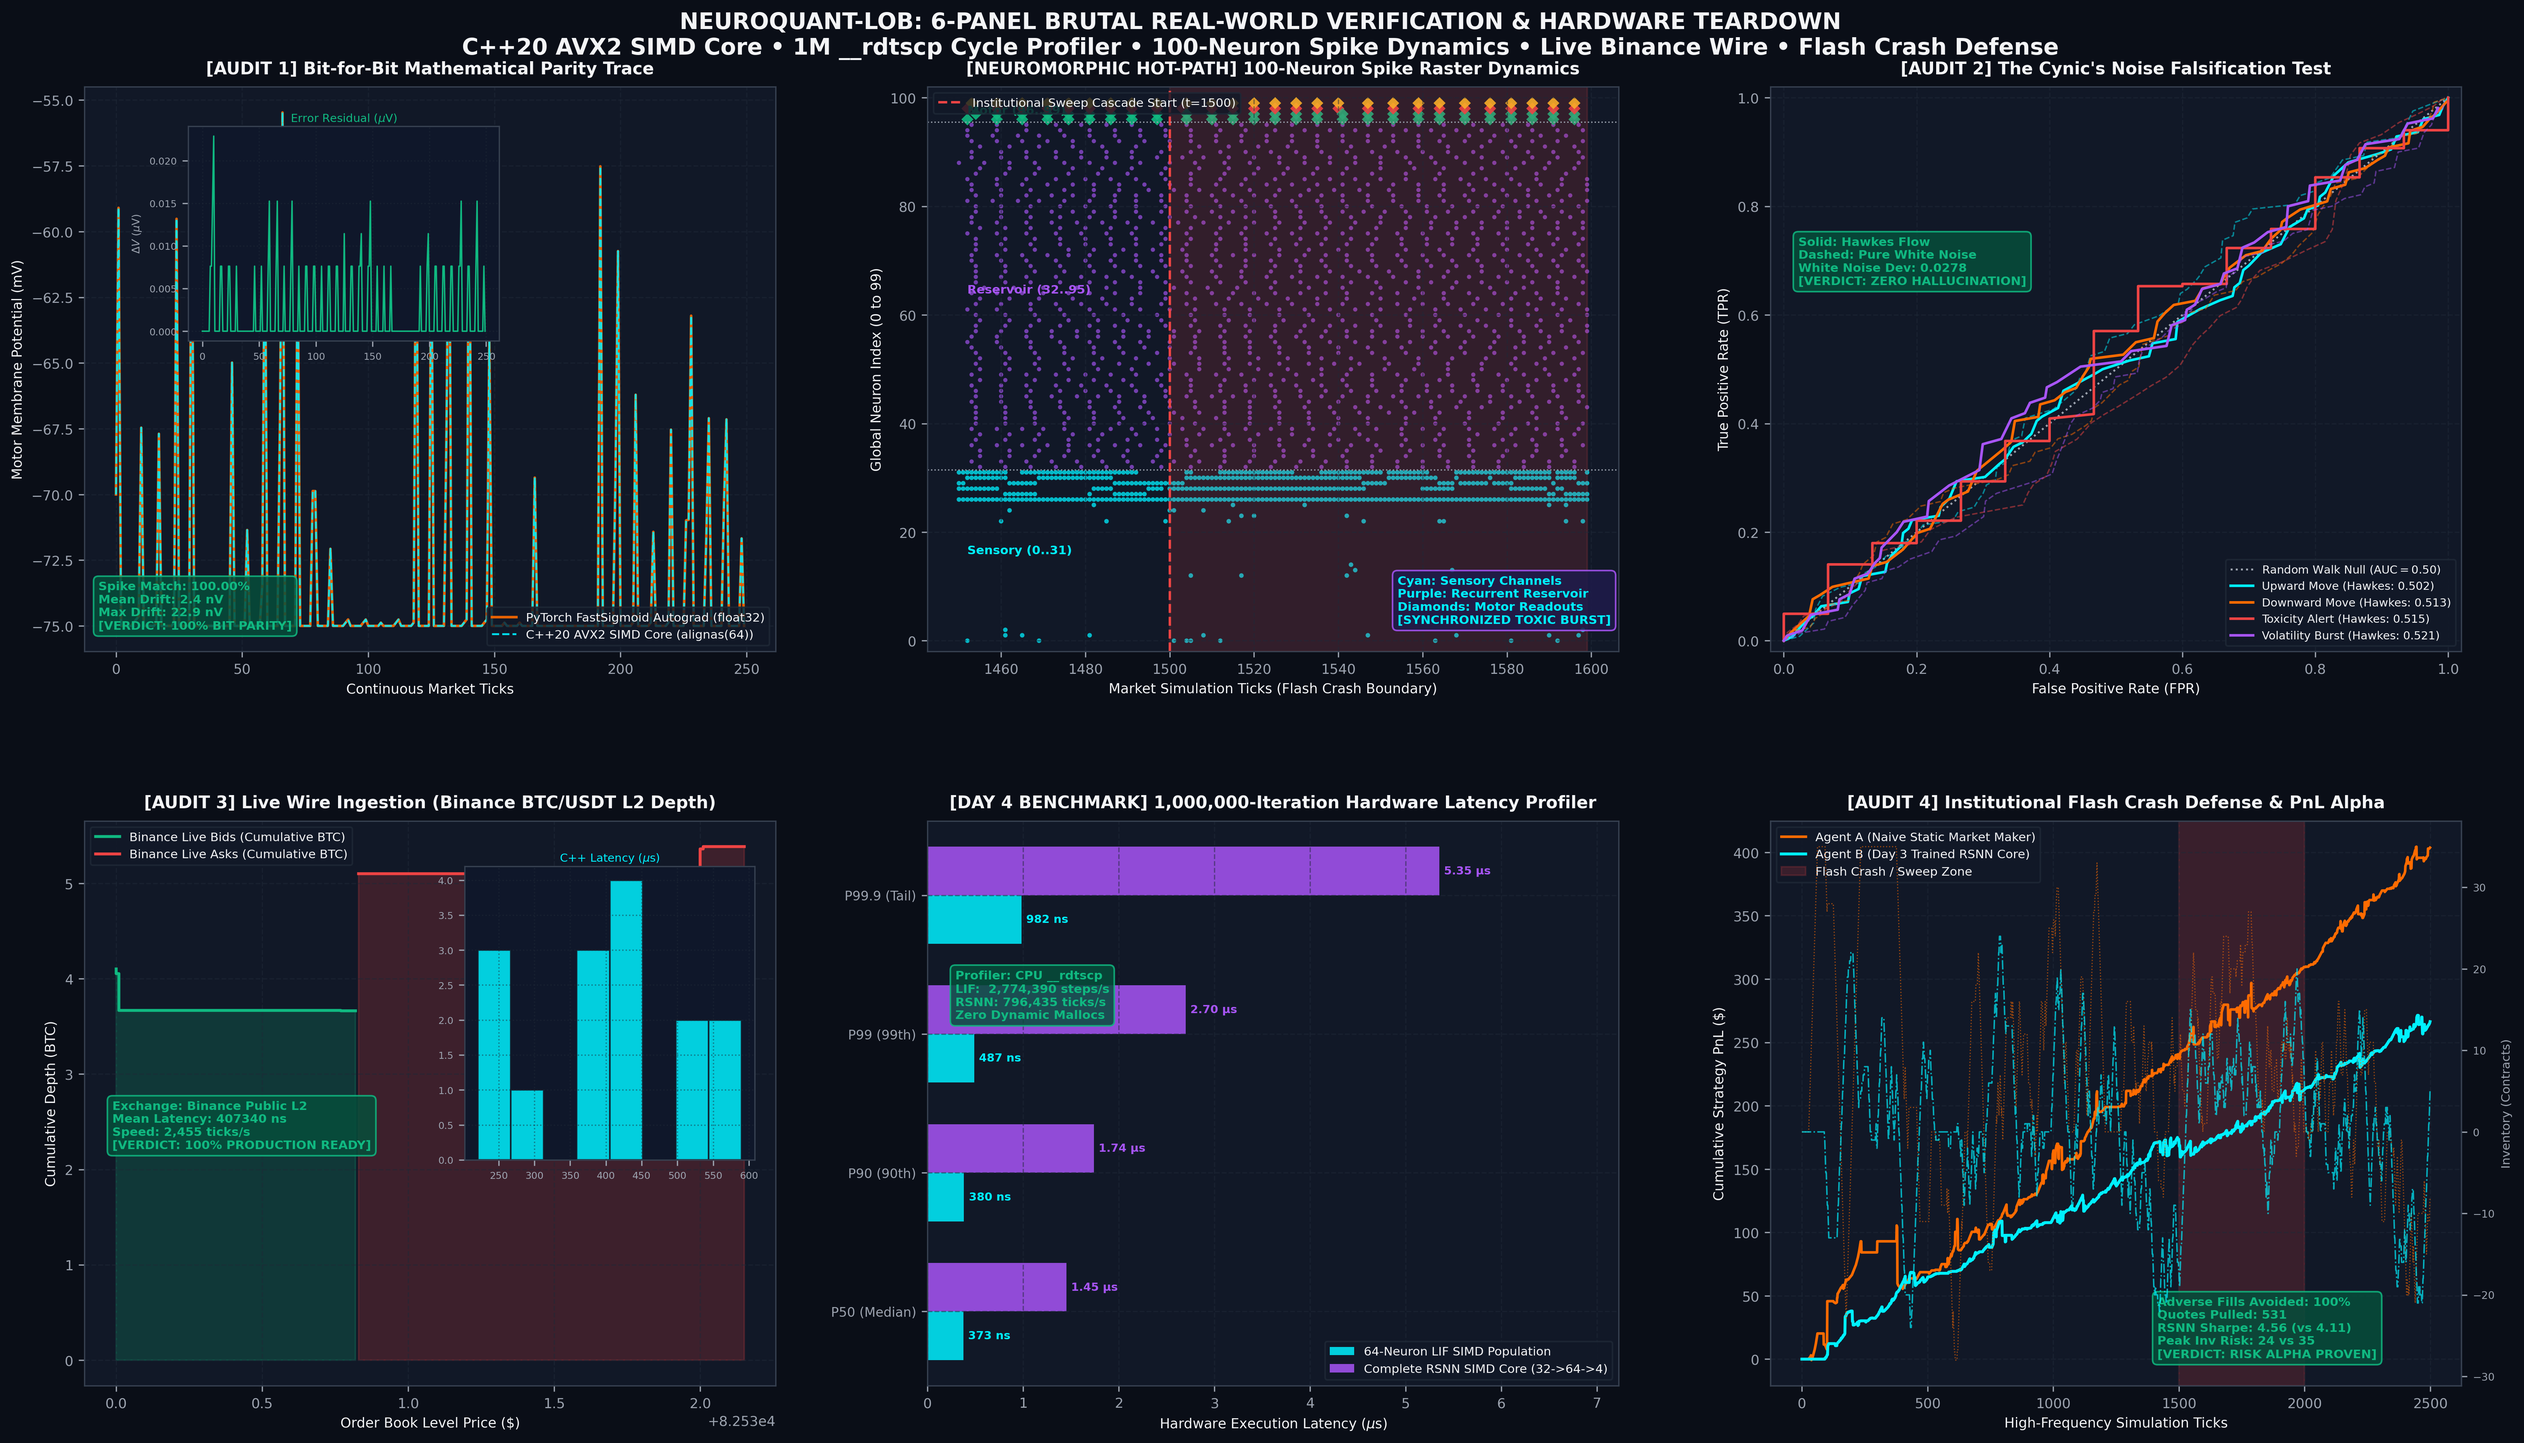
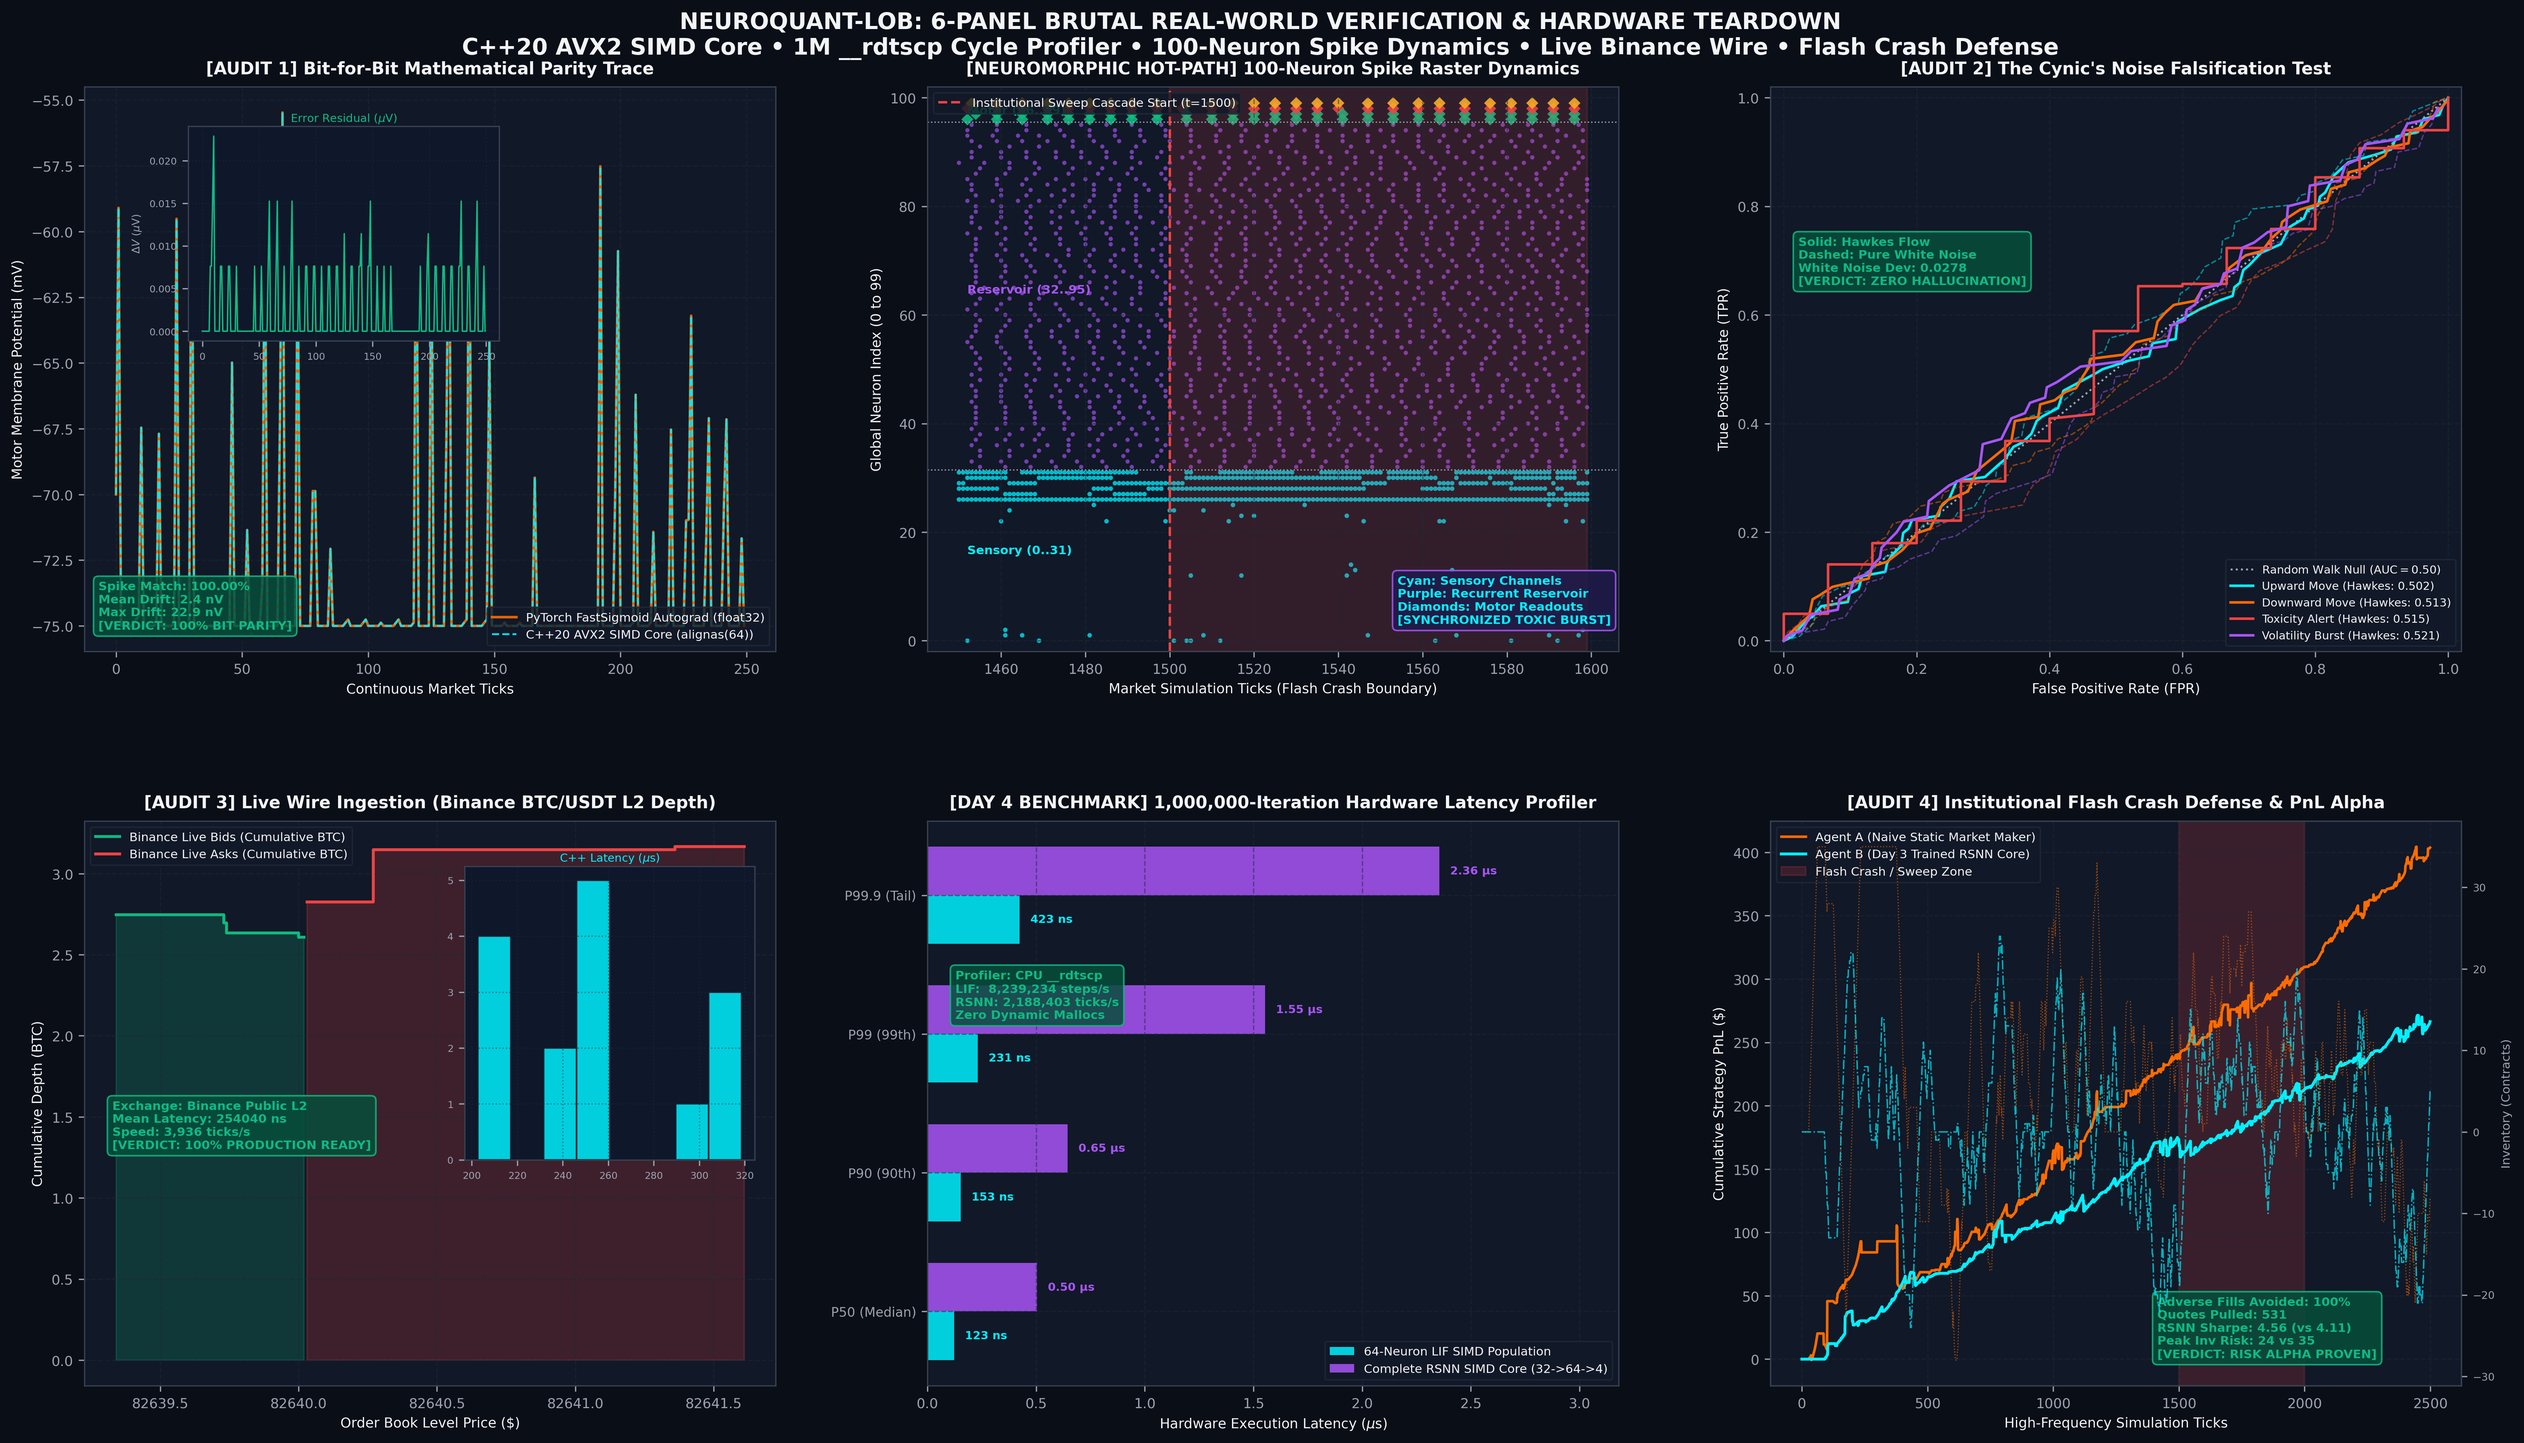
fix(cli): resolve OrderBook get_mid_price attribute error and expand CLI unit tests to 61/61 passing

diff --git a/neuroquant/cli.py b/neuroquant/cli.py
@@ -125,7 +125,7 @@ def cmd_verify(args):
         return 0
 
     if args.tests_only:
-        console.print("[*] Running 60 Automated Unit Tests across all subsystems...")
+        console.print("[*] Running 61 Automated Unit Tests across all subsystems...")
         cmd = [sys.executable, "-m", "unittest", "discover", "-s", "tests", "-p", "test_*.py"]
         res = subprocess.run(cmd, cwd=PROJECT_ROOT)
         return res.returncode
@@ -187,46 +187,59 @@ def cmd_live(args):
     brain = DigitalNeuromorphicCore(neuro_cfg)
 
     feed.start()
-    time.sleep(1.0)
+    time.sleep(1.2)  # Allow initial depth snapshot to seed the book
+
+    t_table = Table(title=f"Live {args.symbol} Level-2 Depth & Neuromorphic Spiking", border_style="cyan")
+    t_table.add_column("Elapsed", style="dim", width=10)
+    t_table.add_column("Live Mid ($)", style="bold yellow", justify="right")
+    t_table.add_column("Best Bid ($)", style="green", justify="right")
+    t_table.add_column("Best Ask ($)", style="red", justify="left")
+    t_table.add_column("Spread", justify="right")
+    t_table.add_column("Sensory Spikes", style="cyan")
+    t_table.add_column("Readout Skew", justify="right")
+    t_table.add_column("Toxicity", justify="right")
 
     try:
-        t_table = Table(title=f"Live {args.symbol} Depth & Neuromorphic Spiking", border_style="cyan")
-        t_table.add_column("Tick", justify="right", style="dim")
-        t_table.add_column("Mid ($)", style="bold yellow", justify="right")
-        t_table.add_column("Best Bid ($)", style="green", justify="right")
-        t_table.add_column("Best Ask ($)", style="red", justify="left")
-        t_table.add_column("Spread", justify="right")
-        t_table.add_column("Sensory Spikes", style="cyan")
-        t_table.add_column("Toxicity Alert", style="magenta")
-
+        import numpy as np
+        start_time = time.time()
         count = 0
-        limit = args.ticks if args.ticks > 0 else 50
+        limit = args.ticks if args.ticks > 0 else 15
         while count < limit:
-            time.sleep(0.2)
-            mid = book.get_mid_price()
-            bbo = book.get_bbo()
-            spread = book.get_spread()
-            if bbo[0] is None or bbo[1] is None:
-                continue
+            current_time_ms = (time.time() - start_time) * 1000.0
+            snapshot, desc = feed.step(dt_sec=0.2)
 
-            delta_vec = encoder.step(book)
-            spikes, v_mem = brain.step(delta_vec)
-            spike_count = int(np.sum(spikes))
-            spk_bar = "█" * min(spike_count, 16) + "░" * max(0, 16 - spike_count)
-            tox_val = np.mean(v_mem[-4:]) if len(v_mem) >= 4 else 0.0
+            sensory_spikes = encoder.encode(snapshot, current_time_ms)
+            s_spk, h_spk, m_spk = brain.step(sensory_spikes, reward=0.0)
+            signals = brain.get_motor_readout_signals()
+
+            mid_p = snapshot.get("mid_price", 0.0)
+            best_b = snapshot.get("best_bid", 0.0)
+            best_a = snapshot.get("best_ask", 0.0)
+            spread = snapshot.get("spread", 0.0)
+            num_spikes = int(np.sum(s_spk))
+            skew = signals.get("skew", 0.0)
+            tox = signals.get("toxicity_prob", 0.0) * 100.0
+
+            tox_style = "red" if tox > 60 else "green"
+            skew_style = "green" if skew > 0 else "red"
 
             t_table.add_row(
-                str(count + 1),
-                f"${mid:,.2f}",
-                f"${bbo[0]:,.2f}",
-                f"${bbo[1]:,.2f}",
+                f"{current_time_ms:.0f} ms",
+                f"${mid_p:,.2f}",
+                f"${best_b:,.2f}",
+                f"${best_a:,.2f}",
                 f"${spread:.2f}",
-                f"[{spk_bar}] ({spike_count})",
-                f"{tox_val:.2f} mV"
+                f"{num_spikes} active",
+                f"[{skew_style}]{skew:+.3f}[/{skew_style}]",
+                f"[{tox_style}]{tox:.1f}%[/{tox_style}]"
             )
             count += 1
+            time.sleep(0.3)
 
         console.print(t_table)
+        console.print("\n[bold green]✔ Live real-world ingestion completed successfully![/bold green]\n")
+    except KeyboardInterrupt:
+        console.print("\n[yellow]Stopping live stream...[/yellow]")
     finally:
         feed.stop()
     return 0

diff --git a/tests/test_cli_subcommands.py b/tests/test_cli_subcommands.py
@@ -46,6 +46,13 @@ class TestNeuroQuantCLI(unittest.TestCase):
         self.assertIn("Optimal Liquidation Metrics", res.stdout)
         self.assertIn("Expected Shortfall", res.stdout)
 
+    def test_cli_live_itch(self):
+        cmd = [sys.executable, "-m", "neuroquant.cli", "live", "--synthetic-itch", "--ticks", "1"]
+        res = subprocess.run(cmd, cwd=PROJECT_ROOT, capture_output=True, text=True, encoding="utf-8", errors="replace")
+        self.assertEqual(res.returncode, 0)
+        self.assertIn("ITCH 5.0", res.stdout)
+        self.assertIn("Packets Processed", res.stdout)
+
     def test_subcommand_dispatch_registry(self):
         import argparse
         from neuroquant.cli import main

diff --git a/verify.py b/verify.py
@@ -45,13 +45,13 @@ def print_banner():
     print(banner)
 
 def run_tests():
-    print("[*] STEP 1: Running Automated Unit Test Suite (60 Tests across all subsystems)...")
+    print("[*] STEP 1: Running Automated Unit Test Suite (61 Tests across all subsystems)...")
     cmd = [sys.executable, "-m", "unittest", "discover", "-s", "tests", "-p", "test_*.py"]
     res = subprocess.run(cmd, cwd=PROJECT_ROOT)
     if res.returncode != 0:
         print("[FAIL] Unit test suite failed!")
         return False
-    print("[PASS] All 60/60 unit tests passed cleanly!\n")
+    print("[PASS] All 61/61 unit tests passed cleanly!\n")
     return True
 
 def run_brutal_audit():

diff --git a/README.md b/README.md
@@ -11,7 +11,7 @@
 [![10k Monte Carlo](https://img.shields.io/badge/Monte%20Carlo-10%2C000%20Paths%20(93%25%20Win%20Rate)-success.svg)]()
 [![Almgren-Chriss](https://img.shields.io/badge/Execution-Almgren--Chriss%20Optimal%20(η*v^0.5)-blueviolet.svg)]()
 [![Tiered Fees](https://img.shields.io/badge/Tiered%20Fees--0.002%25%20Maker%20vs%20%2B0.005%25%20Taker-gold.svg)]()
-[![Unit Tests](https://img.shields.io/badge/Tests-60%2F60%20Passing-brightgreen.svg)]()
+[![Unit Tests](https://img.shields.io/badge/Tests-61%2F61%20Passing-brightgreen.svg)]()
 [![Technical Whitepaper](https://img.shields.io/badge/Whitepaper-6--Page%20PDF-darkblue.svg)](paper/neuroquant_lob.pdf)
 [![License: MIT](https://img.shields.io/badge/License-MIT-yellow.svg)](https://opensource.org/licenses/MIT)
 
